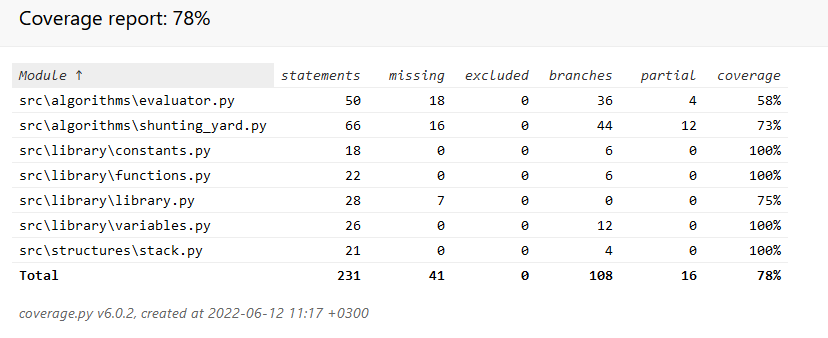
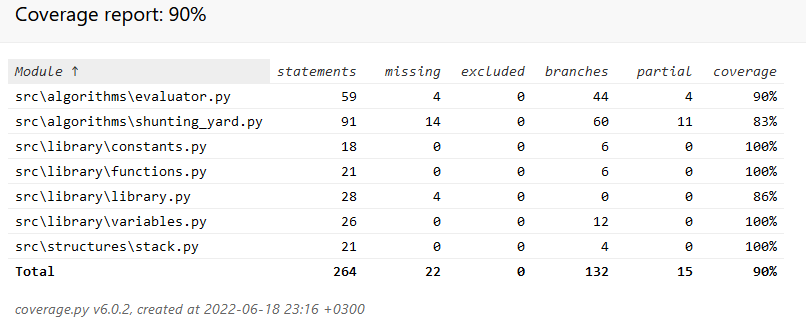
Dokumentaation päivitystä

diff --git a/dokumentaatio/testausdokumentti.md b/dokumentaatio/testausdokumentti.md
@@ -1,8 +1,27 @@
 # Testausdokumentti
 
+Ohjelmaa on testattu unittest-sovelluskehyksen avulla.
+
 ## Yksikkötestauksen kattavuusraportti
-Tilanne 21.5.
+Tilanne 12.6.
 
 ![Testikattavuus](/dokumentaatio/kuvat/testikattavuus.png)
 
-Ohjelmaa on tähän mennessä testattu yksikkötesteillä ja manuaalisesti testaamalla. Testien haaraumakattavuus on tällä hetkellä varsin hyvä, mutta käytetyt testitapaukset ovat vielä varsin yksinkertaisia. Testitapausten laatuun täytyy kiinnittää jatkossa enemmän huomiota.
+Testikattavuusraportin voi muodostaa komennoilla, jolloin raportti muodostuu *htmlcov*-hakemistoon
+```
+coverage run --branch -m pytest src
+coverage html
+```
+
+## 
+
+Testiluokka TestResult testaa lisäksi muiden luokkien yhteistoimintaa.
+
+## Testien toistettavuus
+
+Ohjelman yksikkötestit voidaan suorittaa komennolla
+```
+poetry run pytest src
+```
+
+

diff --git a/dokumentaatio/toteutusdokumentti.md b/dokumentaatio/toteutusdokumentti.md
@@ -3,3 +3,7 @@
 ## Ohjelman yleisrakenne
 
 Algorithms-pakkauksessa olevat luokat huolehtivat algoritmien toiminnasta: ShuntingYard toteuttaa shunting yard -algoritmin ja Evaluator huolehtii algoritmin tuottaman lausekkeen arvon laskennasta. Structures-pakkauksessa oleva luokka Stack toteuttaa pinorakenteen, jota algoritmit käyttävät. Library-pakkauksessa olevat luokat Constants, Functions ja Variables huolehtivat vakioiden, funktioiden ja muuttujien hallinnasta. Library-luokkaa tarjoaa näiden luokkien tarjoamat palvelut algoritmeille.
+
+## Saavutetut aika- ja tilavaativuudet
+
+

diff --git a/dokumentaatio/viikkoraportti_6.md b/dokumentaatio/viikkoraportti_6.md
@@ -1,0 +1,16 @@
+# Viikkoraportti 6
+
+## Tällä viikolla tehtyä
+* Käyttäjän syöttämän merkkijonon lukeminen siten, että kaikkia osia ei tarvitse erottaa toisistaan välilyönnillä
+* Projektiin käytetty aika: 
+
+## Ohjelman edistyminen
+
+
+## Tämän viikon opit
+
+
+## Tämän viikon haasteet
+
+
+## Mitä seuraavaksi

diff --git a/dokumentaatio/tuntikirjanpito.md b/dokumentaatio/tuntikirjanpito.md
@@ -10,4 +10,5 @@ Pvm | Aika | Mitä tehty
 20.5. | 3 | Stack-luokan toteutus, vähän testejä
 21.5. | 4 | Koodin refaktorointia, lisää testejä. Dokumentaation kirjoittamista
 28.5. | 3 | Operaattoreiden laskujärjestyksen huomiointi
-Yht. | 22 |
+6.-12.6. | 25 | Tarkempi kirjanpito jäi tältä viikolta tekemättä
+Yht. | 47 |
